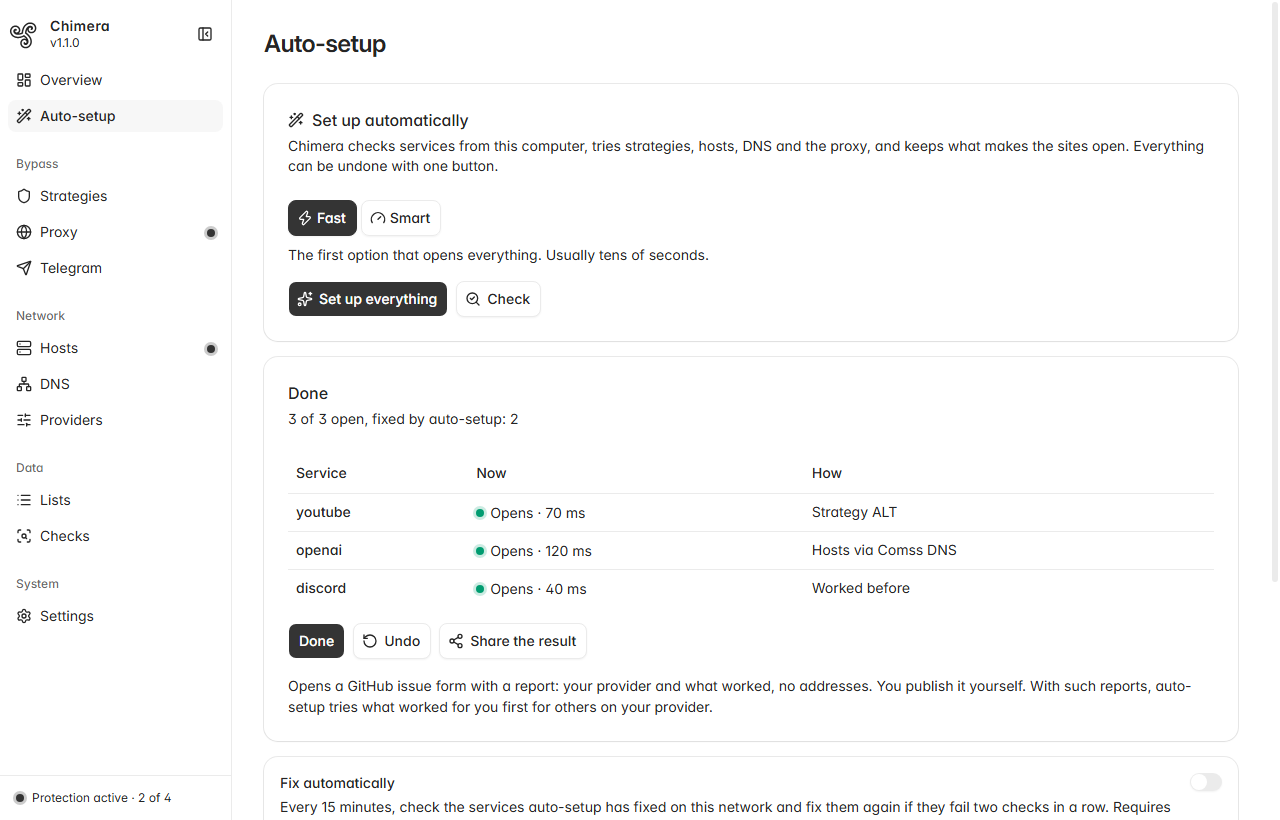
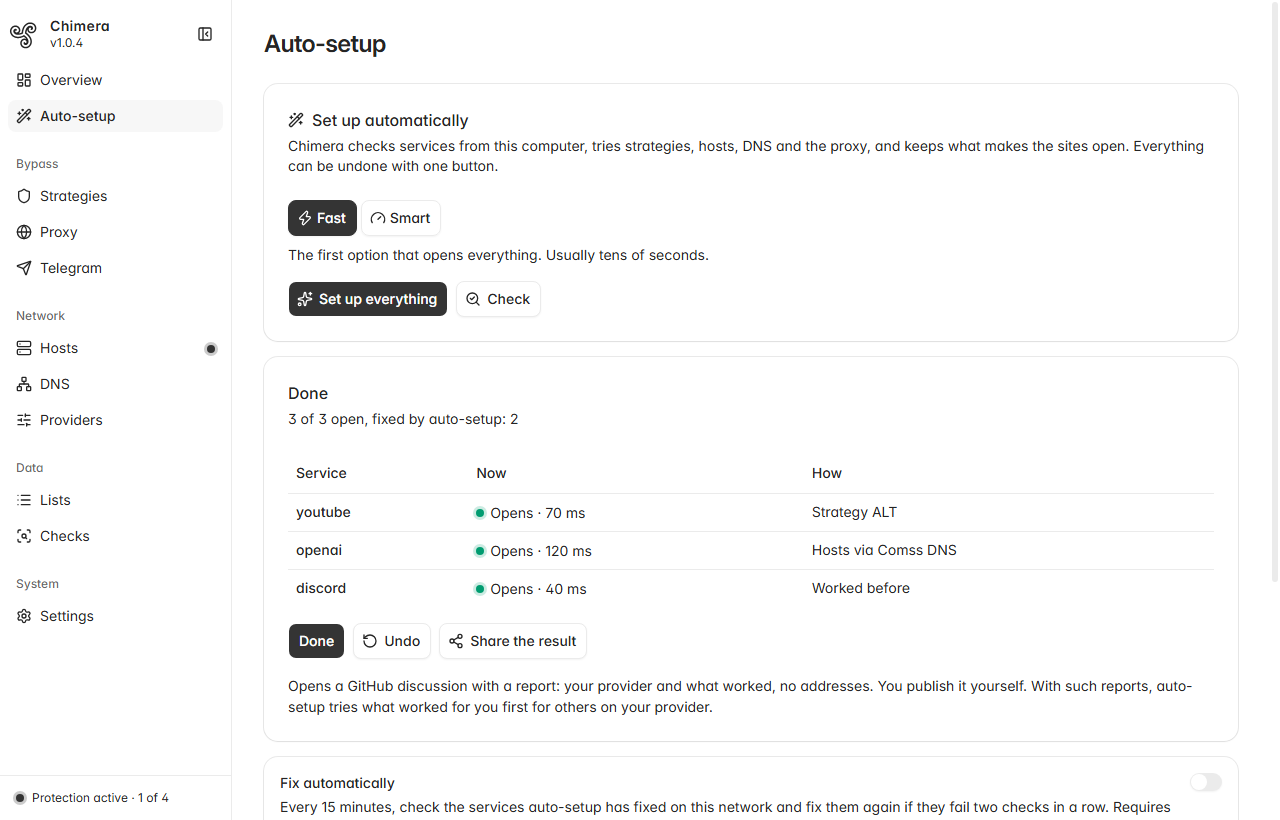
release: следующий выпуск — 1.0.4

diff --git a/docs/ROADMAP.md b/docs/ROADMAP.md
@@ -3,10 +3,10 @@
 Здесь планы и статус возможностей следующего обновления. Возможности релиза — в [README](../README.md),
 команды — в [CLI.md](CLI.md), устройство интерфейса — в [FRONTEND.md](FRONTEND.md).
 
-Последний релиз — **1.0.3**, следующий — **1.1.0**. Главный приоритет — чтобы нужное
+Последний релиз — **1.0.3**, следующий — **1.0.4**. Главный приоритет — чтобы нужное
 открывалось у пользователя без ручной настройки, и чтобы любое изменение можно было вернуть.
 
-## Готово к 1.1.0
+## Готово к 1.0.4
 
 - **Автонастройка** ([подробности](AUTOTUNE.md)). «Настроить всё» и «Починить» у сервиса:
   Chimera проверяет сервисы с компьютера пользователя, перебирает стратегии, hosts-провайдеры,
@@ -53,7 +53,7 @@
 
 ## Следующие шаги — по порядку
 
-1. **Карта провайдеров на сайте** — после выхода 1.1.0, когда придут первые отчёты. Страница
+1. **Карта провайдеров на сайте** — после выхода 1.0.4, когда придут первые отчёты. Страница
    лендинга из `strategies/provider-map.json`: что работает у какого провайдера для YouTube,
    Discord и остальных. Её находят поиском («youtube ростелеком не работает»), и она ведёт
    к скачиванию.

diff --git a/release-notes/1.0.4.ru.md b/release-notes/1.0.4.ru.md
@@ -1,4 +1,4 @@
-# Chimera 1.1.0
+# Chimera 1.0.4
 
 ### Автонастройка
 - Новая страница «Автонастройка»: Chimera сама проверяет сервисы с вашего компьютера, перебирает стратегии, hosts-провайдеры, DNS и прокси и оставляет то, при чём сайты открываются. Разбираться, чем стратегия отличается от hosts, не нужно.

diff --git a/release-notes/1.0.4.en.md b/release-notes/1.0.4.en.md
@@ -1,4 +1,4 @@
-# Chimera 1.1.0
+# Chimera 1.0.4
 
 ### Auto-setup
 - New Auto-setup page: Chimera checks services from your computer, tries strategies, hosts providers, DNS and the proxy on its own, and keeps what makes the sites open. No need to know how a strategy differs from hosts.
